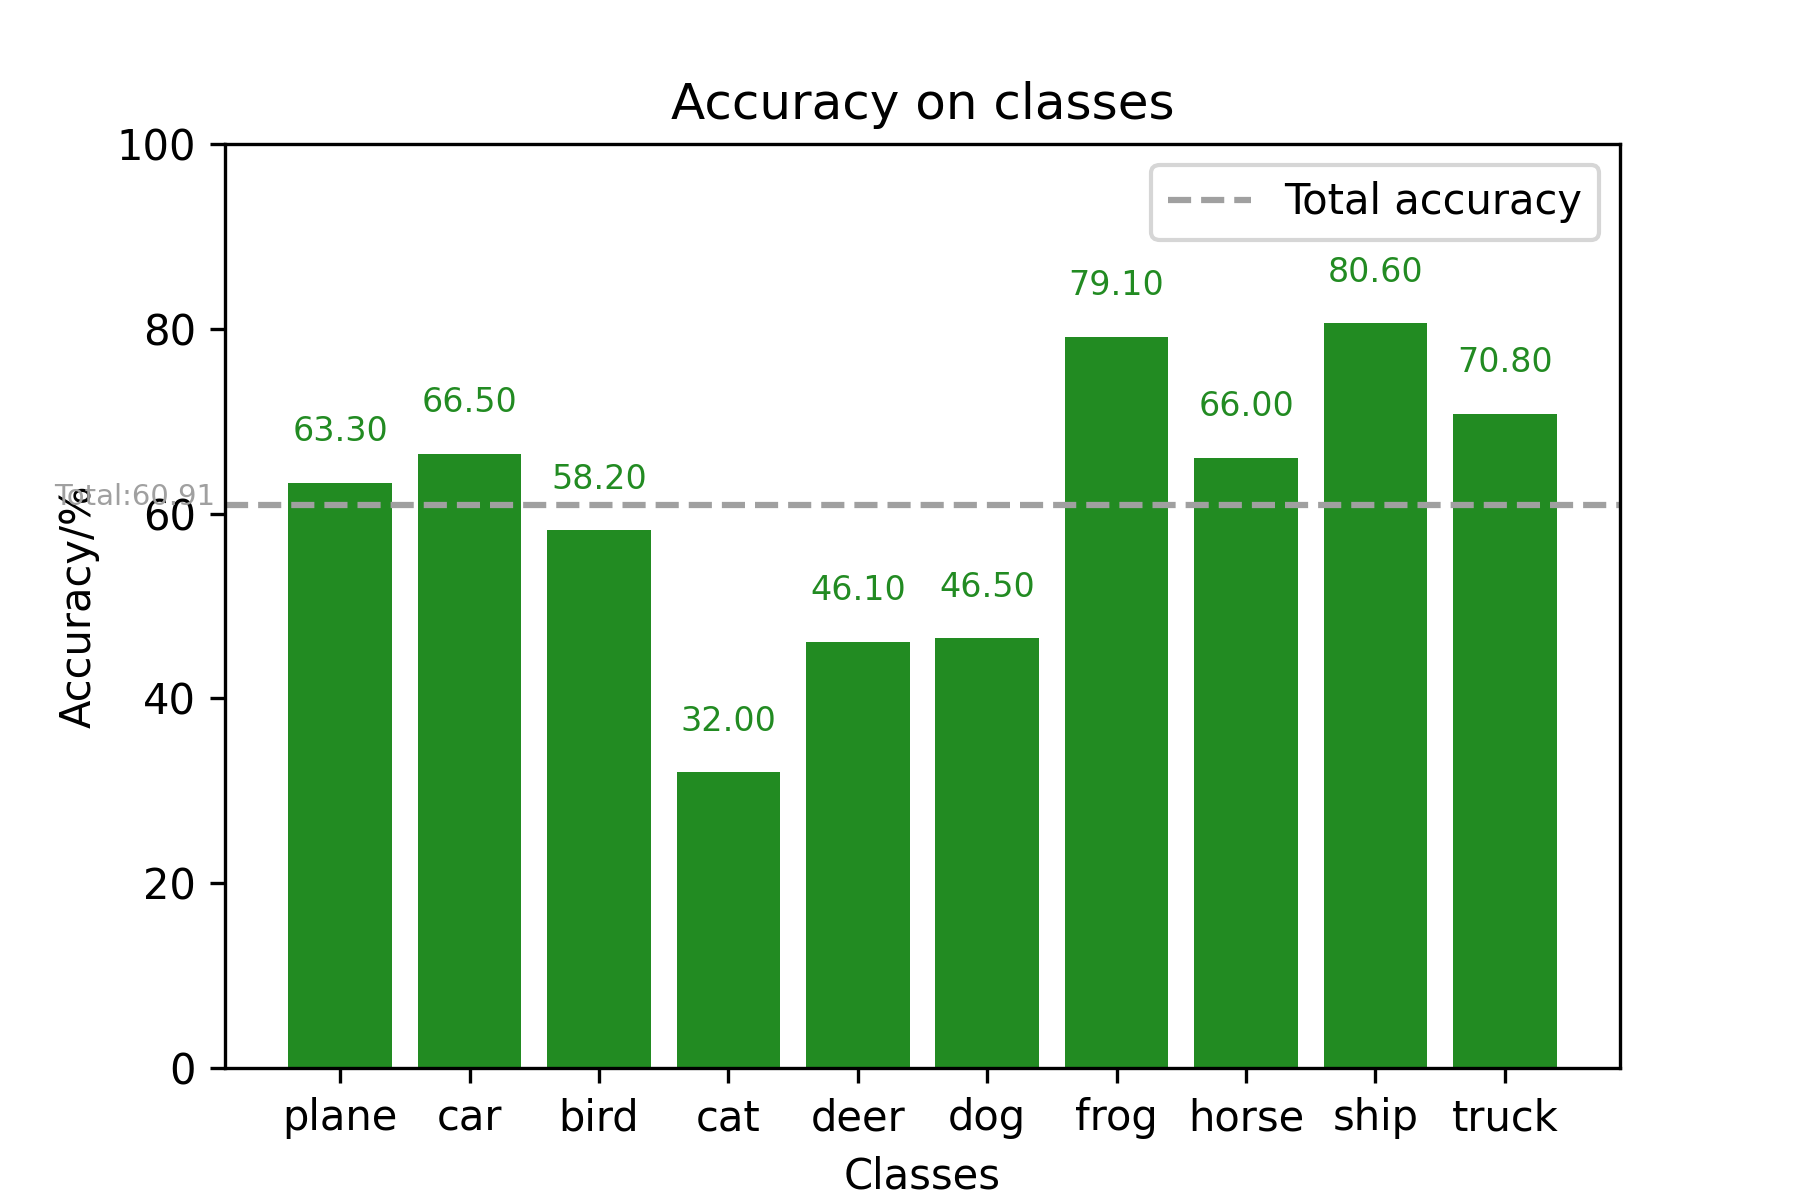
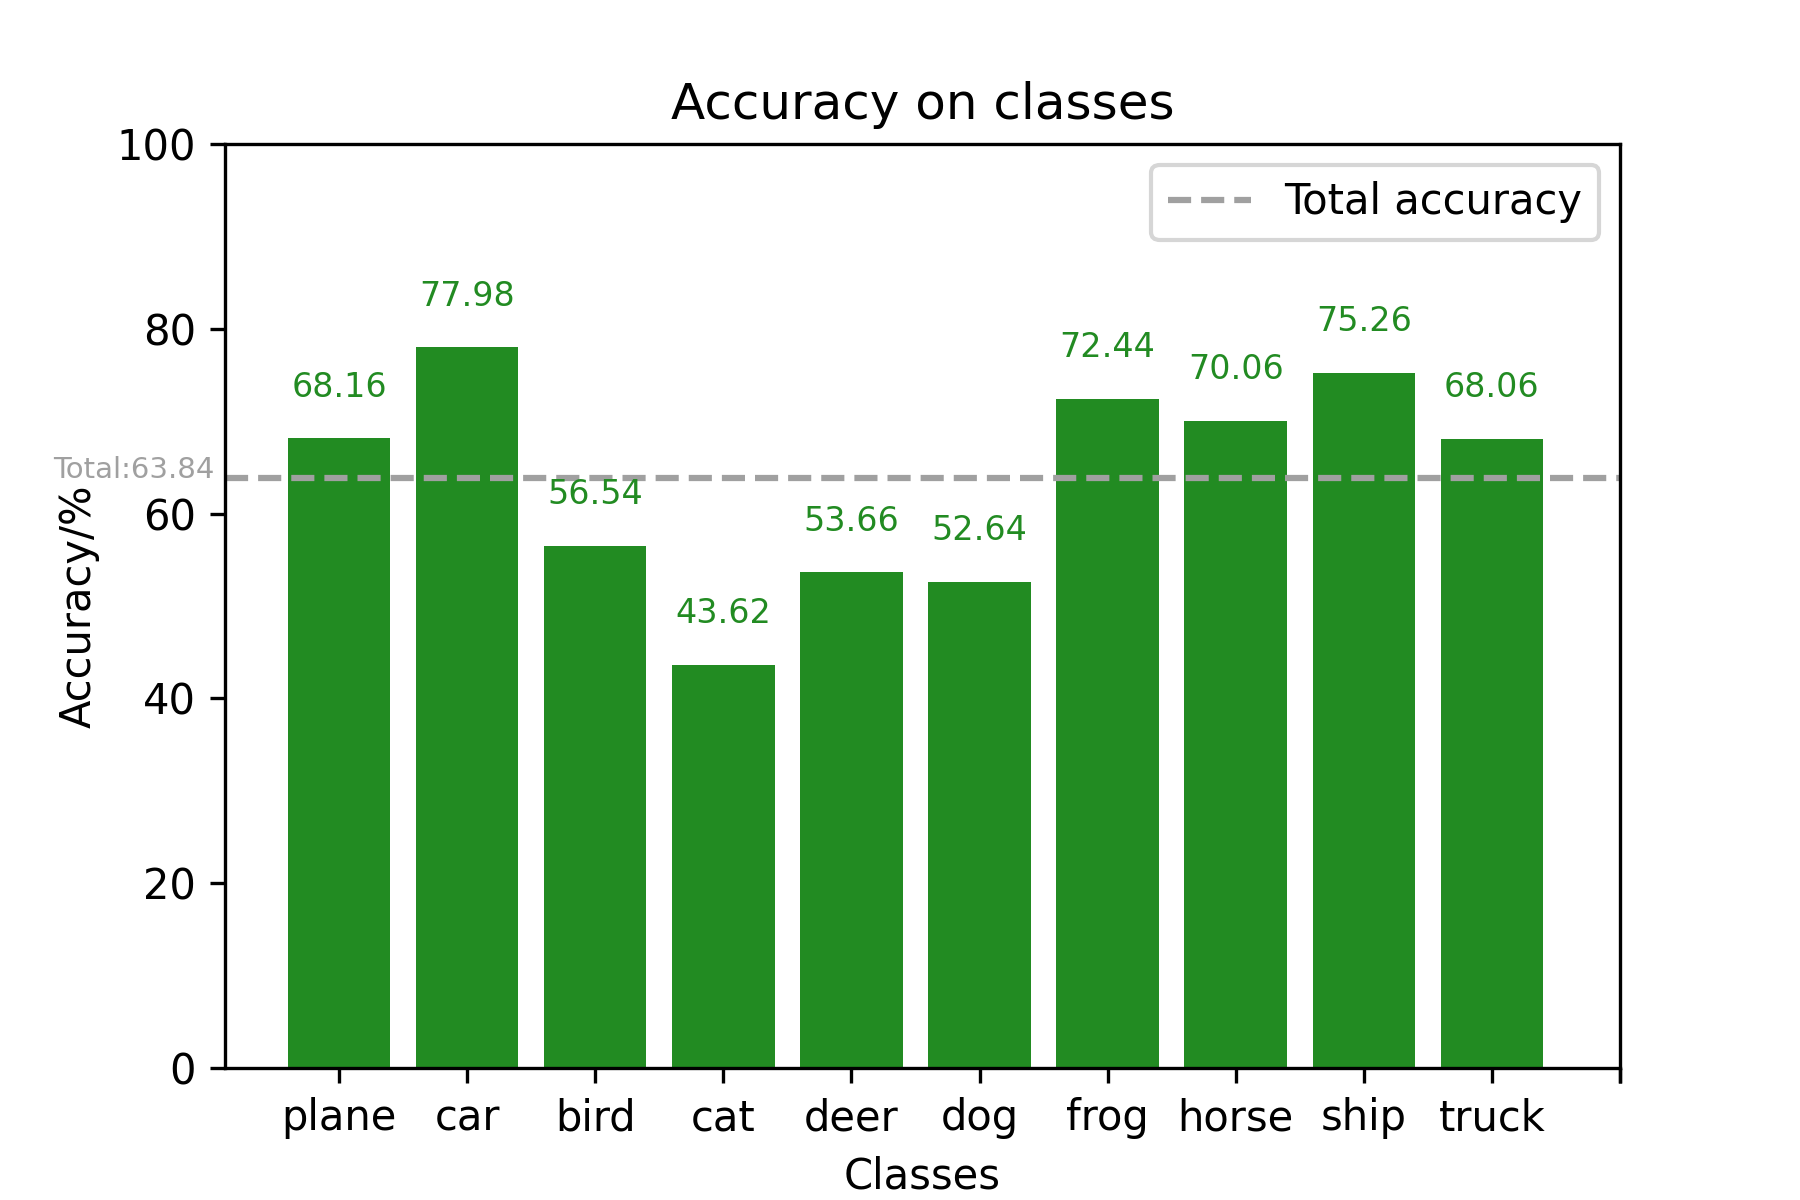
11.4 21:21 commit

diff --git a/LeNet/python/main.py b/LeNet/python/main.py
@@ -1,9 +1,10 @@
 from LeNet import LeNet5
 import matplotlib.pyplot as plt
 from constants import *
+import numpy as np
 
 
-def compare_max_trains(max_epochs=300):
+def compare_max_trains(max_epochs=200):
     iterations=[]
     accuracy=[]
     net = LeNet5()
@@ -26,45 +27,58 @@ def compare_max_trains(max_epochs=300):
     plt.savefig('max_train_result.png', dpi=300)
 
 
-def compare_fc_layers(max_layer=4):
-    fc_layer=[]
+def compare_fc_layers(max_layer=4,max_entities=MAX_ENTITIES):
+    fc_layer=[i for i in range(3,max_layer+1)]
     max_accuracy=[]
-    for i in range(3,max_layer+1):
-        fc_layer.append(i)
-        net=LeNet5(fc_count=i)
-        test_result=net.train_and_test(MAX_TRAIN+100*(i-3))
-        max_acc=max(test_result,key=lambda x:x[1])
+    for i in fc_layer:
+        nets=[LeNet5(fc_count=i) for _ in range(max_entities)]
+        test_results=[nets[j].train_and_test(MAX_TRAIN+100*(i-3)) for j in range(max_entities)]
+        max_accs=[max(test_results[j],key=lambda x:x[1]) for j in range(max_entities)]
+        max_acc=(sum([x[0] for x in max_accs])/max_entities,sum([x[1] for x in max_accs])/max_entities)
         max_accuracy.append(max_acc)
     _visualize_args_accuracy(fc_layer,max_accuracy,'FC layers','fc_compare_result.png')
 
 
-def compare_channels(max_channel=32,step=4):
-    channel=[]
+def compare_channels(max_channel=32,step=4,max_entities=MAX_ENTITIES):
+    channel=[i for i in range(16,max_channel+step-1,step)]
     max_accuracy=[]
-    for i in range(16,max_channel+step-1,step):
-        channel.append(i)
-        net=LeNet5(channel1=CHANNEL_1+2*((i-16)//step),channel2=i)
-        test_result=net.train_and_test(MAX_TRAIN+50*(i-16))
-        max_acc=max(test_result,key=lambda x:x[1])
-        max_accuracy.append(max_acc)
-    _visualize_args_accuracy(channel,max_accuracy,'Feature Channels','channel2_compare_result.png')
+    for i in channel:
+        nets=[LeNet5(channel1=CHANNEL_1+2*((i-16)//step),channel2=i) for _ in range(max_entities)]
+        test_results=[nets[j].train_and_test(MAX_TRAIN+50*(i-16)) for j in range(max_entities)]
+        max_accuracy.append(_get_avg_max_accuracy(test_results,max_entities))
+    _visualize_args_accuracy(channel,max_accuracy,'Feature Channels','channel2_compare_result_test.png')
 
 
 def default_test():
-    net = LeNet5(channel1=6, channel2=16, fc_count=3)
-    net.train(30)
-    total_acc,accuracies=net.test()
-    _visualize_classes_accuracy(total_acc, accuracies, 'default_result.png')
+    _batch_test(path='default_result.png')
 
 
-def adjusted_test():
-    net=LeNet5(channel1=6,channel2=32,fc_count=5)
+def adjusted_test(channel1=6,channel2=32,fc_count=4,max_entities=MAX_ENTITIES):
+    net=LeNet5(channel1=channel1,channel2=channel2,fc_count=fc_count)
     test_result=net.train_and_test(250,10)
     best_acc=max(test_result,key=lambda x:x[1])
-    net=LeNet5(channel1=6,channel2=24,fc_count=4)
-    net.train(best_acc[0])
-    total_acc,accuracies=net.test()
-    _visualize_classes_accuracy(total_acc, accuracies, 'adjusted_result.png')
+    _batch_test(channel1=channel1,
+                channel2=channel2,
+                fc_count=fc_count,
+                max_train=int(best_acc[0]),
+                max_entities=max_entities,
+                path='adjusted_result.png')
+
+
+def _batch_test(channel1=CHANNEL_1,channel2=CHANNEL_2,fc_count=FC_COUNT,max_train=MAX_TRAIN,max_entities=MAX_ENTITIES,path='null.png',visualize=True):
+    nets = [LeNet5(channel1=channel1, channel2=channel2, fc_count=fc_count) for _ in range(max_entities)]
+    total_accuracies = []
+    class_accuracies = []
+    for net in nets:
+        net.train(max_train)
+        total_accuracy, class_accuracy = net.test()
+        total_accuracies.append(total_accuracy)
+        class_accuracies.append(class_accuracy)
+    total_acc = np.mean(total_accuracies)
+    accuracies = [(class_accuracies[0][i][0], np.mean([x[i][1] for x in class_accuracies])) for i in range(10)]
+    if visualize:
+        _visualize_classes_accuracy(total_acc, accuracies, path)
+    return total_acc,accuracies
 
 
 def _visualize_classes_accuracy(total, accuracies, path):
@@ -109,14 +123,22 @@ def _visualize_args_accuracy(arg_arr, accuracies, arg_name, path):
 # adjust ticks on x-axis
 def _custom_adjust_x_axis(arr):
     x_ticks=arr
-    x_ticks.insert(0,min(arr)-1)
-    x_ticks.append(max(arr) + 1)
+    if len(arr)>0 and isinstance(arr[0],(int,float,complex)):
+        x_ticks.insert(0, min(arr) - 1)
+        x_ticks.append(max(arr) + 1)
+    else:
+        x_ticks.insert(0, '')
+        x_ticks.append('')
     plt.xticks(x_ticks)
     plt.gca().get_xaxis().get_major_ticks()[0].label1.set_visible(False)
     plt.gca().get_xaxis().get_major_ticks()[-1].label1.set_visible(False)
 
 
-if __name__ == '__main__':
-    compare_channels(40)
-    compare_fc_layers(7)
+def _get_avg_max_accuracy(results,max_entities):
+    max_accs = [max(results[j], key=lambda x: x[1]) for j in range(max_entities)]
+    return sum([x[0] for x in max_accs]) / max_entities, sum([x[1] for x in max_accs]) / max_entities
 
+
+if __name__ == '__main__':
+    default_test()
+    compare_channels(40,4)

diff --git a/LeNet/python/LeNet.py b/LeNet/python/LeNet.py
@@ -18,7 +18,6 @@ class LeNet5(nn.Module):
             self.fc.append(nn.Linear(84,84))
         self.fc3=nn.Linear(84, 10)
         self.channel2=channel2
-        self.dataset=Dataset()
         print(f'Init completed with channel1={channel1},channel2={channel2},fc_count={len(self.fc)+3}')
 
     def forward(self, x):
@@ -37,7 +36,7 @@ class LeNet5(nn.Module):
         optimizer = optim.SGD(self.parameters(), lr=0.001, momentum=0.9)
         for epoch in range(max_epochs):
             running_loss = 0.0
-            for i, data in enumerate(self.dataset.train_loader, 0):
+            for i, data in enumerate(TRAIN_LOADER, 0):
                 inputs, labels = data
                 optimizer.zero_grad()
                 outputs = self.forward(inputs)
@@ -45,17 +44,17 @@ class LeNet5(nn.Module):
                 loss.backward()
                 optimizer.step()
                 running_loss += loss.item()
-            print(f"Epoch {epoch + 1}, EntropyLoss: {running_loss / len(self.dataset.train_loader):.6f}")
+            print(f"Epoch {epoch + 1}, EntropyLoss: {running_loss / len(TRAIN_LOADER):.6f}")
         print("Training Finished")
 
-    def train_and_test(self,max_epochs=MAX_TRAIN,gap=TEST_GAP):
+    def train_and_test(self,max_epochs=MAX_TRAIN,gap=TEST_GAP,train_loader=TRAIN_LOADER):
         criterion = nn.CrossEntropyLoss()
         optimizer = optim.SGD(self.parameters(), lr=0.001, momentum=0.9)
         accuracies=[]
         low_avg_case=0
         for epoch in range(max_epochs):
             running_loss = 0.0
-            for i, data in enumerate(self.dataset.train_loader, 0):
+            for i, data in enumerate(train_loader, 0):
                 inputs, labels = data
                 optimizer.zero_grad()
                 outputs = self.forward(inputs)
@@ -63,7 +62,7 @@ class LeNet5(nn.Module):
                 loss.backward()
                 optimizer.step()
                 running_loss += loss.item()
-            print(f"Epoch {epoch + 1}, Loss: {running_loss / len(self.dataset.train_loader):.7f}")
+            print(f"Epoch {epoch + 1}, Loss: {running_loss / len(train_loader):.7f}")
             if (epoch + 1) % gap == 0:
                 acc,_=self.test()
                 accuracies.append((epoch+1,acc))
@@ -82,12 +81,12 @@ class LeNet5(nn.Module):
         print("Training Finished")
         return accuracies
 
-    def test(self):
+    def test(self,test_loader=TEST_LOADER):
+        accuracies=[]
         class_correct = list(0. for _ in range(10))
         class_total = list(0. for _ in range(10))
-        accuracies=[]
         with torch.no_grad():
-            for data in self.dataset.test_loader:
+            for data in test_loader:
                 inputs, labels = data
                 outputs = self(inputs)
                 _, predicted = torch.max(outputs, 1)
@@ -98,14 +97,9 @@ class LeNet5(nn.Module):
                     label = labels[i]
                     class_correct[label] += c[i].item()
                     class_total[label] += 1
-
-        # Calculate and print the accuracy for each class.
         for i in range(10):
-            accuracy = 100 * class_correct[i] / class_total[i]
-            print(f'Accuracy of {self.dataset.classes[i]}: {accuracy:.2f}%')
-            accuracies.append((self.dataset.classes[i],accuracy))
-
-        # Calculate and print the overall accuracy.
-        total_accuracy = 100 * sum(class_correct) / sum(class_total)
-        print(f'Overall accuracy: {total_accuracy:.2f}%')
+            accuracies.append((CLASSES[i],class_correct[i]*100.0/class_total[i]))
+            print(f'  {accuracies[i][0]} accuracy: {accuracies[i][1]:.2f}%')
+        total_accuracy=sum(class_correct)*100.0/sum(class_total)
+        print(f'Total accuracy:{total_accuracy:.2f}%')
         return total_accuracy,accuracies

diff --git a/LeNet/python/constants.py b/LeNet/python/constants.py
@@ -2,7 +2,7 @@ import torch
 import torchvision
 import torchvision.transforms as transforms
 
-MAX_TRAIN=60
+MAX_TRAIN=55
 BATCH_SIZE=64
 CHANNEL_1=6
 CHANNEL_2=16
@@ -10,29 +10,21 @@ FC_COUNT=3
 TEST_GAP=5
 GRAY='#A0A0A0'
 DEFAULT_COLOR='#228B22'
+MAX_ENTITIES=5
 
-
-class Dataset:
-    _instance=None
-
-    def __new__(cls,*args,**kwargs):
-        if not cls._instance:
-            cls._instance=super(Dataset,cls).__new__(cls,*args,**kwargs)
-        return cls._instance
-
-    def __init__(self):
-        transform = transforms.Compose(
+transform = transforms.Compose(
             [transforms.ToTensor(), # transforms the image data to tensor
              transforms.Normalize((0.5, 0.5, 0.5), (0.5, 0.5, 0.5))]) # normalize RGB to [0,1]
 
-        self.train_set = torchvision.datasets.CIFAR10(root='./data', train=True,
-                                                      download=True, transform=transform)
-        self.train_loader = torch.utils.data.DataLoader(self.train_set, batch_size=BATCH_SIZE,
-                                                        shuffle=True, num_workers=2)
+train_set = torchvision.datasets.CIFAR10(root='./data', train=True,
+                                         download=True, transform=transform)
+TRAIN_LOADER = torch.utils.data.DataLoader(train_set, batch_size=BATCH_SIZE,
+                                           shuffle=True, num_workers=2)
 
-        self.test_set = torchvision.datasets.CIFAR10(root='./data', train=False,
+test_set = torchvision.datasets.CIFAR10(root='./data', train=False,
                                                      download=True, transform=transform)
-        self.test_loader = torch.utils.data.DataLoader(self.test_set, batch_size=BATCH_SIZE,
-                                                       shuffle=False, num_workers=2)
+TEST_LOADER = torch.utils.data.DataLoader(test_set, batch_size=BATCH_SIZE,
+                                          shuffle=True, num_workers=2)
 
-        self.classes = ('plane', 'car', 'bird', 'cat', 'deer', 'dog', 'frog', 'horse', 'ship', 'truck')
+CLASSES = ('plane', 'car', 'bird', 'cat', 'deer', 'dog', 'frog', 'horse', 'ship', 'truck')
+

diff --git a/Kmeans/python/imgHandler.py b/Kmeans/python/imgHandler.py
@@ -31,3 +31,15 @@ def array_to_imgs(data,mask,path):
     for i, img in enumerate(imgs):
         img.show()
         img.save(path+f'/section{i+1}.png')
+
+
+def array_to_single_img(data,mask,path):
+    img_height = data.shape[0]
+    img_width = data.shape[1]
+    img=pilImage.new('RGB',(img_width,img_height))
+    for y in range(img_height):
+        for x in range(img_width):
+            pixel=data[y,x]*255
+            group_index=mask[y,x]
+            img.putpixel((x,y),)
+            # TODO:put the pixels with different color to one single img
